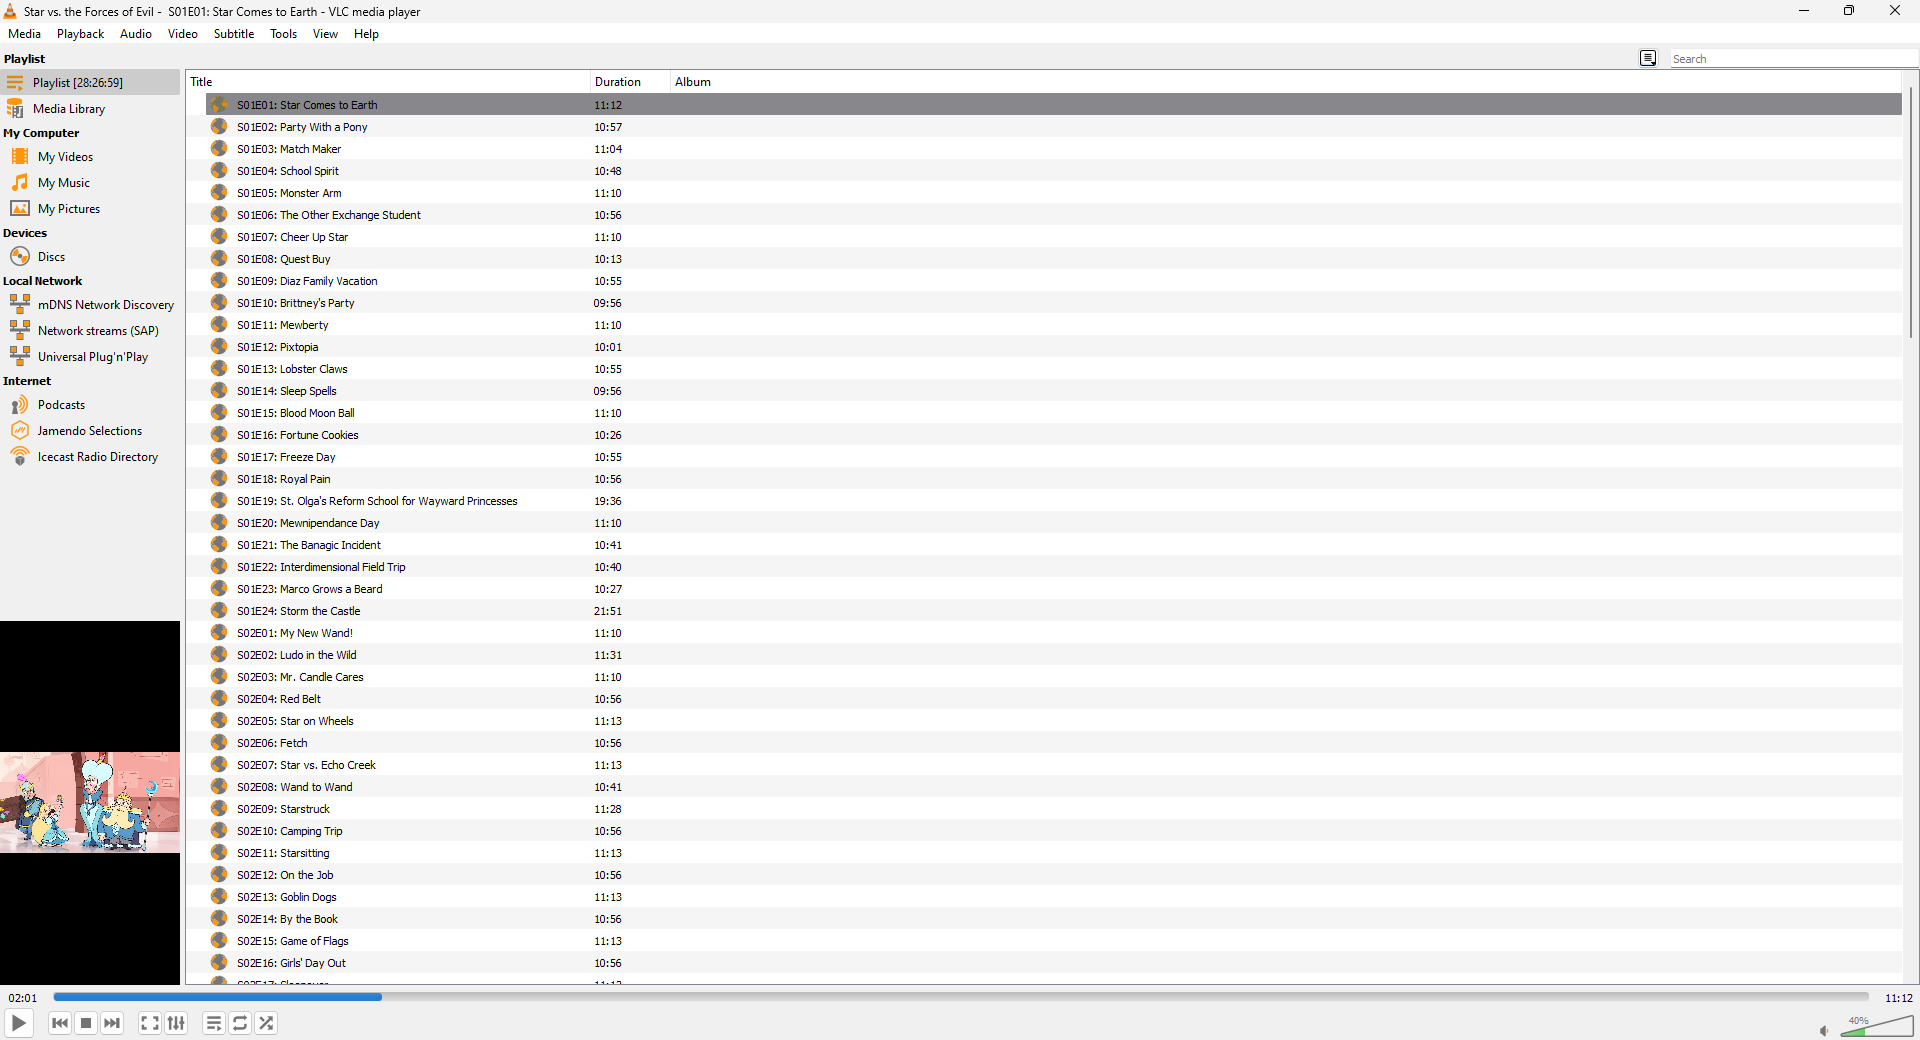
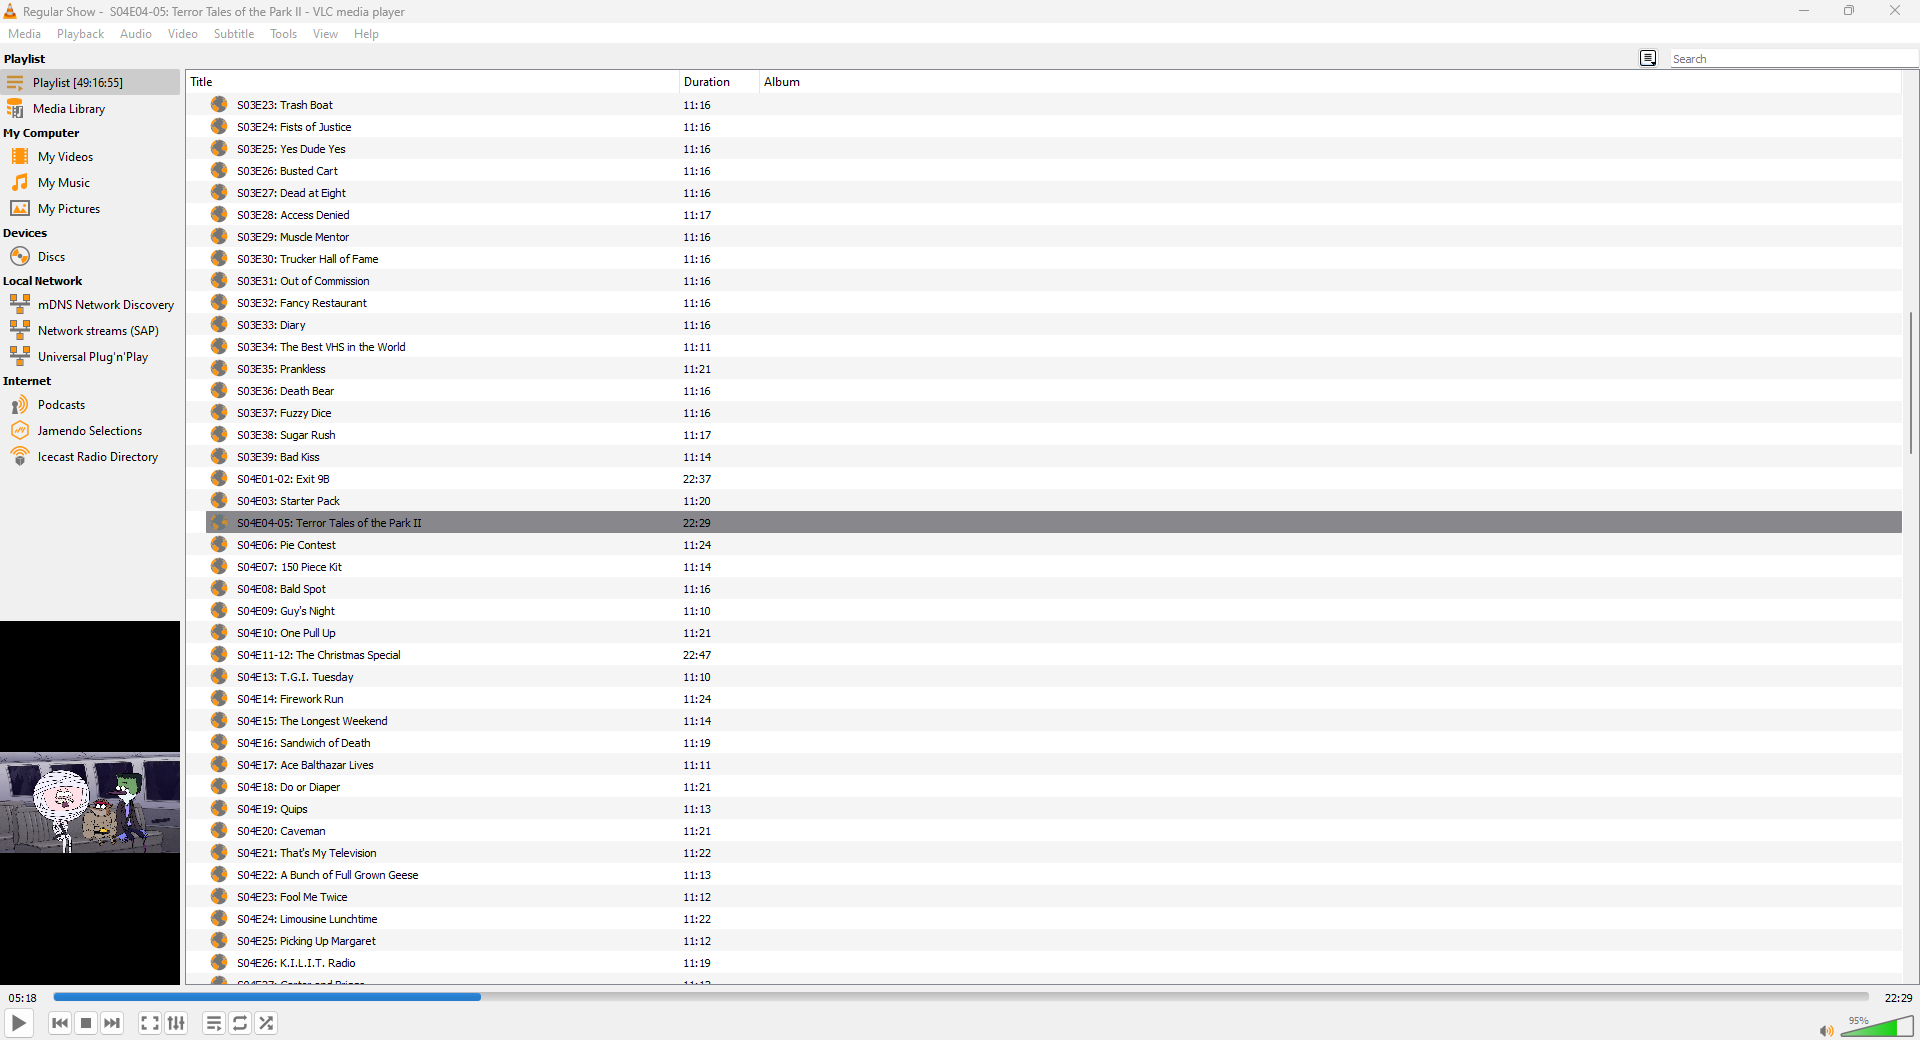
better demonstration of capabilities

diff --git a/README.md b/README.md
@@ -28,6 +28,6 @@ You don't have to be a manager of the Jellyfin instance for this to work, but yo
 Note that unless you're using a dedicated API key for the `authToken` parameter, these files will stop working after a while! It's best not to save the m3u files, and rather to put the URL directly in your media player of choice.
 
 ## Screenshots
-![Screenshot of VLC, playing the first episode of Star vs. the Forces of Evil](Image0.png)
-![Screenshot of VLC, showing most of the SvtFoE episodes in a list](Image1.png)
+![Screenshot of VLC, playing the 4th/5th episode of Regular Show, season 4](Image0.png)
+![Screenshot of VLC, showing some of the Regular Show episodes in a list](Image1.png)
 ![Screenshot of VLC, playing the first track of Graduation by Kanye West](Image2.png)
